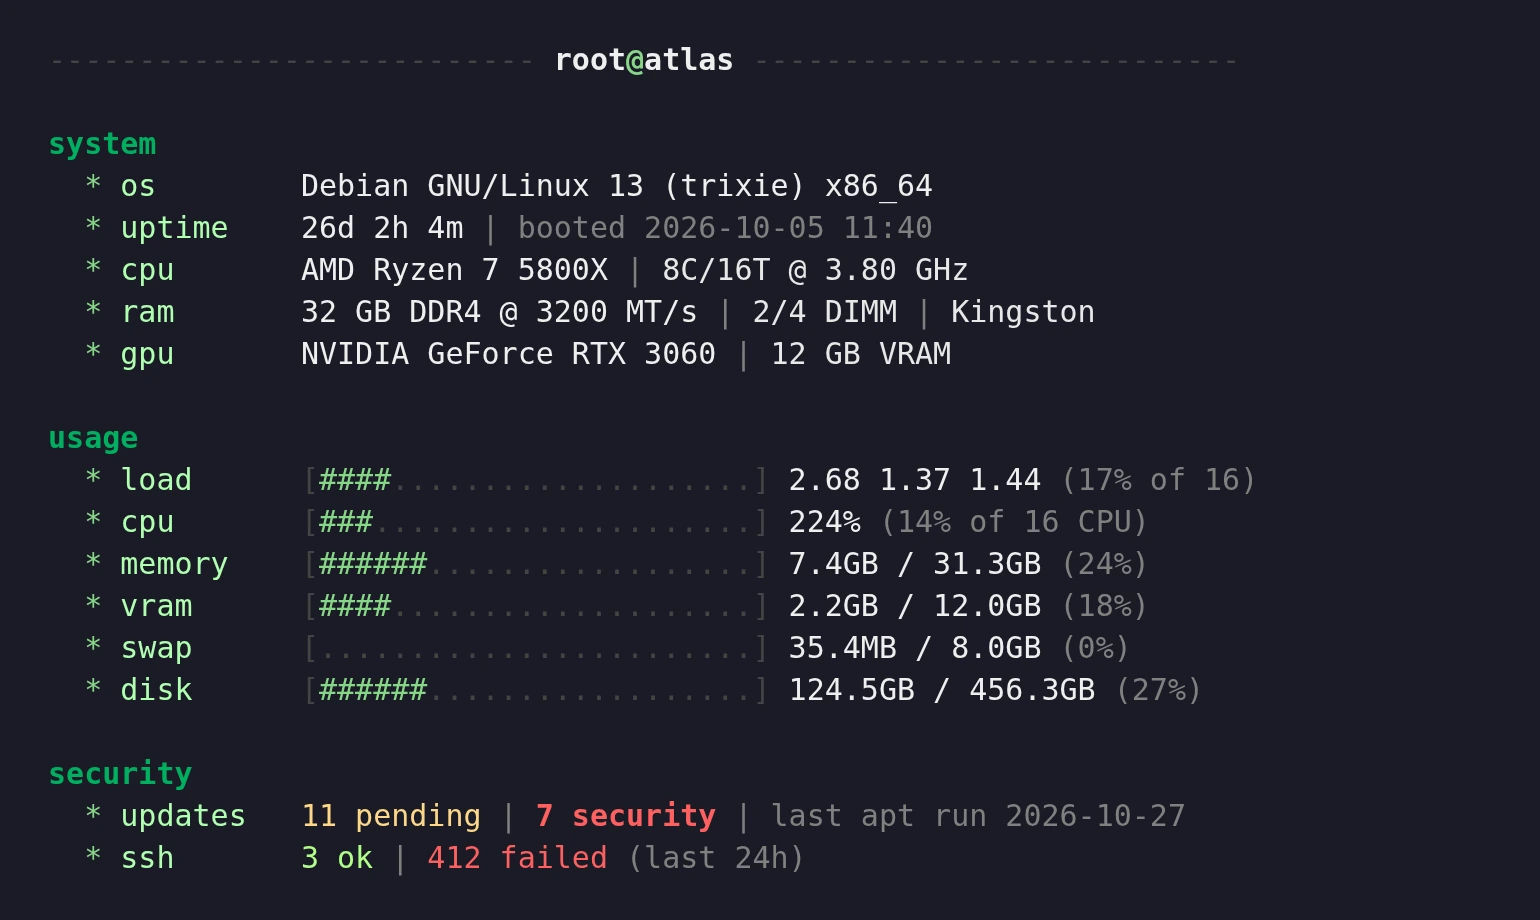
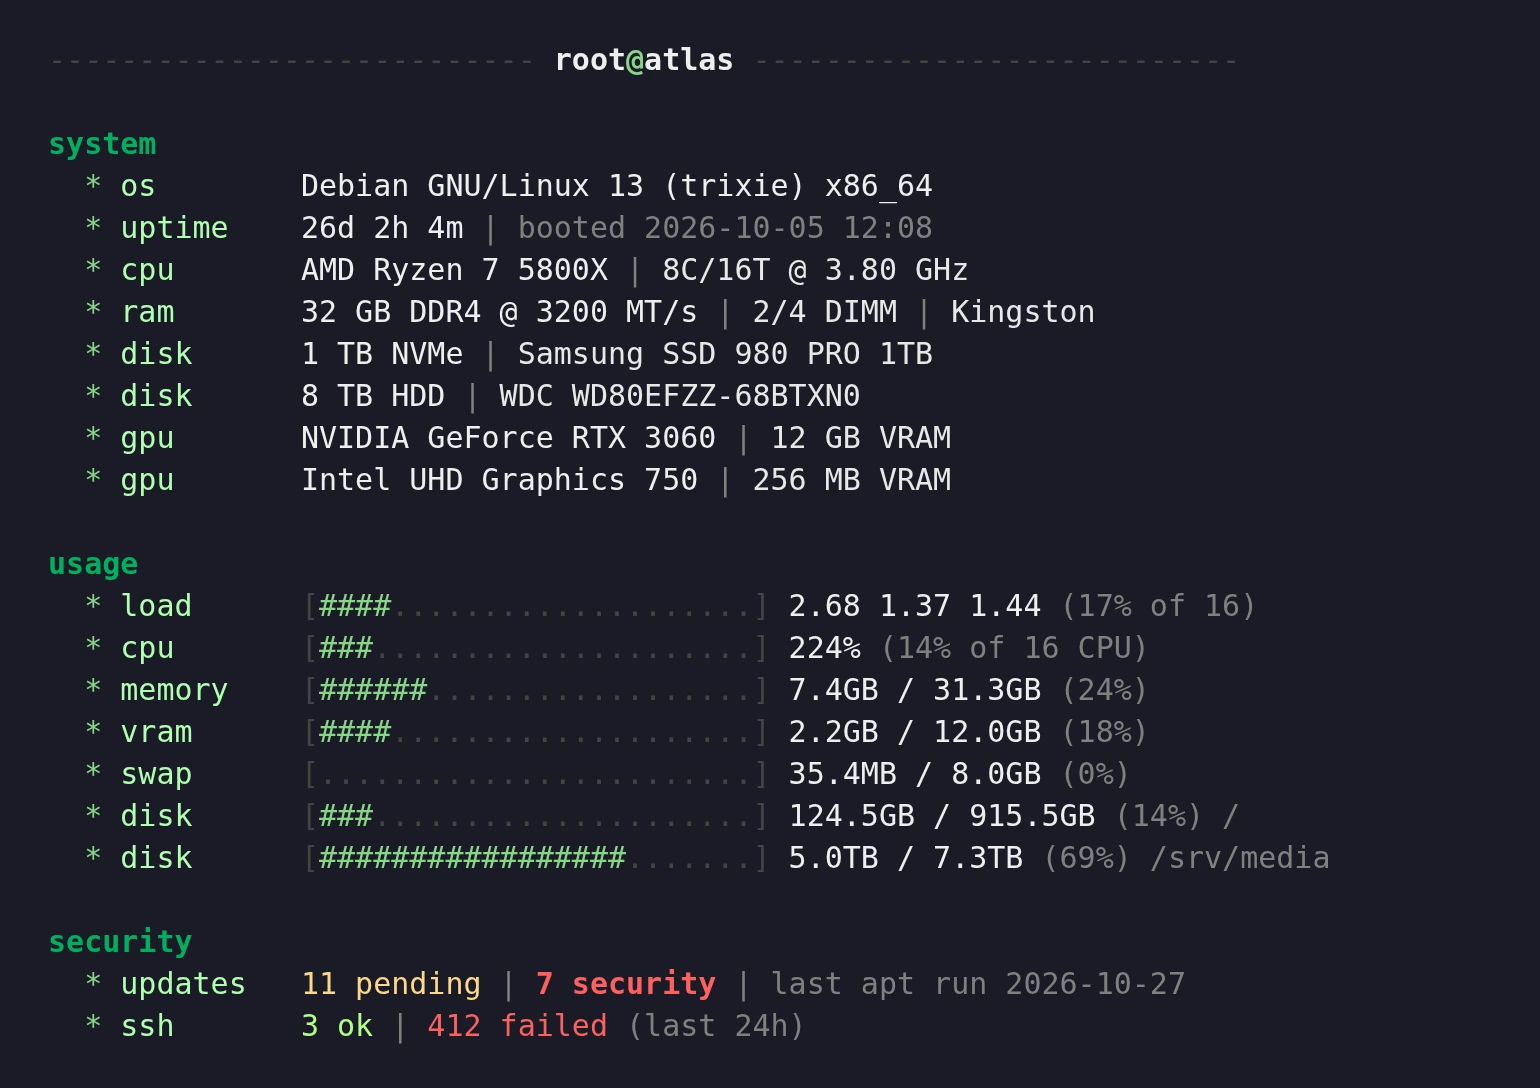
docs: disks, GPUs and file systems, new previews

diff --git a/README.md b/README.md
@@ -10,7 +10,7 @@
   <img alt="Debian, Ubuntu, Fedora, Arch" src="https://img.shields.io/badge/runs%20on-Debian%20%7C%20Ubuntu%20%7C%20Fedora%20%7C%20Arch-E95420.svg">
 </p>
 
-simple-motd replaces the login messages of a Debian, Ubuntu, Fedora or Arch server with one screen in three parts: **system** (OS, uptime, CPU, RAM, GPU), **usage** (load, CPU, memory, VRAM, swap and disk, as bars) and **security** (pending updates, security ones apart, and the SSH logins that worked and failed over the last 24 hours). A systemd timer gathers the slow values every minute, so the screen prints in a few milliseconds. It is plain shell with ASCII symbols only, and works whatever the login shell: bash, zsh or sh: no font, no runtime, nothing to keep up to date besides the repository.
+simple-motd replaces the login messages of a Debian, Ubuntu, Fedora or Arch server with one screen in three parts: **system** (OS, uptime, CPU, RAM, disks, GPUs), **usage** (load, CPU, memory, VRAM, swap and each file system, as bars) and **security** (pending updates, security ones apart, and the SSH logins that worked and failed over the last 24 hours). A systemd timer gathers the slow values every minute, so the screen prints in a few milliseconds. It is plain shell with ASCII symbols only, and works whatever the login shell: bash, zsh or sh: no font, no runtime, nothing to keep up to date besides the repository.
 
 ## Screenshots
 
@@ -43,7 +43,8 @@ The values come from a sample machine. How to make them again: [CONTRIBUTING.md]
   - `journal` (default): read from the journal of the sshd unit, or from `/var/log/auth.log` / `/var/log/secure` when the journal is not kept; sshd is left as it is.
   - `private`: sshd logs only to a file in RAM that simple-motd empties every minute, and nothing about SSH reaches the journal or the disk.
   - `off`: no SSH line.
-- **Hardware details** where the machine gives them: DDR type, speed and modules from `dmidecode`, GPU and VRAM from `lspci`, `nvidia-smi` or amdgpu; a virtual machine is marked as such.
+- **Hardware details** where the machine gives them: DDR type, speed and modules from `dmidecode`; every physical disk (NVMe, SSD, HDD, model) from `lsblk`; every GPU with its VRAM from `lspci`, `nvidia-smi` or amdgpu; a virtual machine is marked as such.
+- **Every file system** in the usage part, one bar each with its mount point, without Docker, snap or `/boot` (or the ones you list).
 - **Four themes**: pink, blue, green, orange, picked at install time from a preview, changed later with `simple-motd theme <name>`.
 - **Optional prompt** (`root ~ >`) for bash, zsh and POSIX sh (dash, ash, ksh), the same in all three, in the colours of the theme: directory, git branch read from `.git/HEAD` (git is never run), exit status in red after a failure.
 - **Clean install**: one script, run again to change options, `--dry-run` to see what it would do; every file it replaces is copied first, and `uninstall.sh` gives the system back as it was.

diff --git a/docs/how-it-works.md b/docs/how-it-works.md
@@ -14,12 +14,13 @@ When the cache is more than five minutes old, the screen says so under the secur
 | uptime | `/proc/uptime` |
 | cpu (system) | `/proc/cpuinfo` (model, average frequency), `lscpu` (cores), `nproc` (threads), `systemd-detect-virt` |
 | ram | `dmidecode -t memory`: total, DDR type, configured speed, modules used out of slots, maker; virtual machines rarely give more than the size |
-| gpu | `lspci` (first VGA, 3D or display controller), and its size of VRAM |
+| disk (system) | `lsblk -d`: one line per physical disk (size, NVMe, SSD, HDD or virtual, USB, model); no partition, LVM or RAID volume, loop device, zram or optical drive |
+| gpu | `lspci`: one line per VGA, 3D or display controller (integrated and discrete), with its size of VRAM |
 | load | `/proc/loadavg`, as a share of the threads |
 | cpu (usage) | `/proc/stat`, average over the last minute (between two runs of the timer) |
 | memory, swap | `/proc/meminfo` (used = total minus available) |
-| vram | `nvidia-smi`, or `mem_info_vram_*` of amdgpu; shown only when the card tells its use |
-| disk | `df` of `/` |
+| vram | `nvidia-smi` (matched to the card by its PCI address), or `mem_info_vram_*` of amdgpu; one line per card that tells its use, named after it when there are several |
+| disk (usage) | `df -l`: `/` first, then every local data file system (ext4, xfs, btrfs, zfs, f2fs, bcachefs, ntfs, exfat...) by path, each device once (btrfs subvolumes, bind mounts, the datasets of one ZFS pool); never Docker, snap, `/boot`, `/run` or network mounts. `DISKS` picks them by hand |
 | updates | below |
 | ssh | below |
 
@@ -40,7 +41,7 @@ Each one is stored as `<time> ok` or `<time> fail` in `/var/lib/simple-motd/ssh-
 
 ### journal (default)
 
-sshd is left as it is. simple-motd reads the journal of the sshd unit (`ssh.service` or `sshd.service`) from where it stopped the previous minute (a saved cursor), going back 24 hours on the first run. When the journal keeps nothing for the unit (no persistent or volatile journal), it reads `/var/log/auth.log` (Debian, Ubuntu with rsyslog) or `/var/log/secure` (Fedora with rsyslog) from a saved offset, starting at the end of the file on the first run and from the top after a rotation.
+sshd is left as it is. simple-motd reads the journal of the sshd unit (`ssh.service` or `sshd.service`) from where it stopped the previous minute (a saved cursor), going back 24 hours on the first run. When the journal keeps nothing for the unit (`Storage=none`, or not a single entry for it), it reads `/var/log/auth.log` (Debian, Ubuntu with rsyslog) or `/var/log/secure` (Fedora with rsyslog) from a saved offset, starting at the end of the file on the first run and from the top after a rotation.
 
 The addresses stay in the system's logs as before: simple-motd only reads them. If sshd runs with `LogLevel QUIET` (or lower), there is nothing to count and the line says so.
 

diff --git a/docs/configuration.md b/docs/configuration.md
@@ -6,9 +6,11 @@
 THEME=pink        # pink, blue, green or orange (the screen and the prompt)
 SSH_MODE=journal  # journal, private or off
 WIDTH=66          # width of the header line, in columns
+DISKS=""          # mount points in the usage part; empty: every local data file system
+MAX_DISKS=6       # at most this many disk lines, the others counted on one line
 ```
 
-`THEME` and `WIDTH` apply at the next login. `SSH_MODE` changes what sshd does in `private` mode: switch it with `sudo ./install.sh --ssh <mode>` rather than by hand.
+`THEME`, `WIDTH`, `DISKS` and `MAX_DISKS` apply at the next login. `SSH_MODE` changes what sshd does in `private` mode: switch it with `sudo ./install.sh --ssh <mode>` rather than by hand.
 
 ## Themes
 
